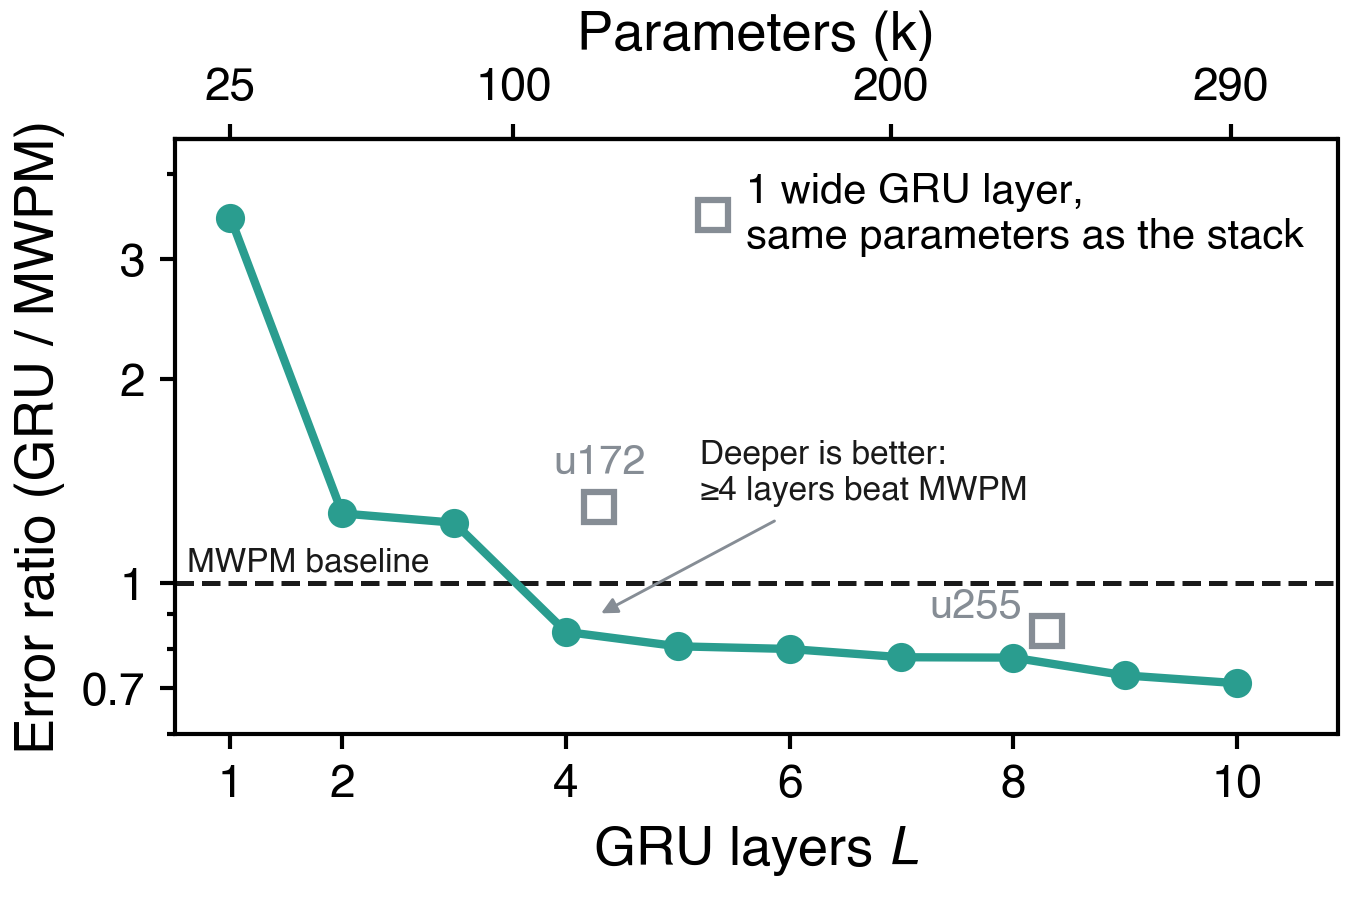
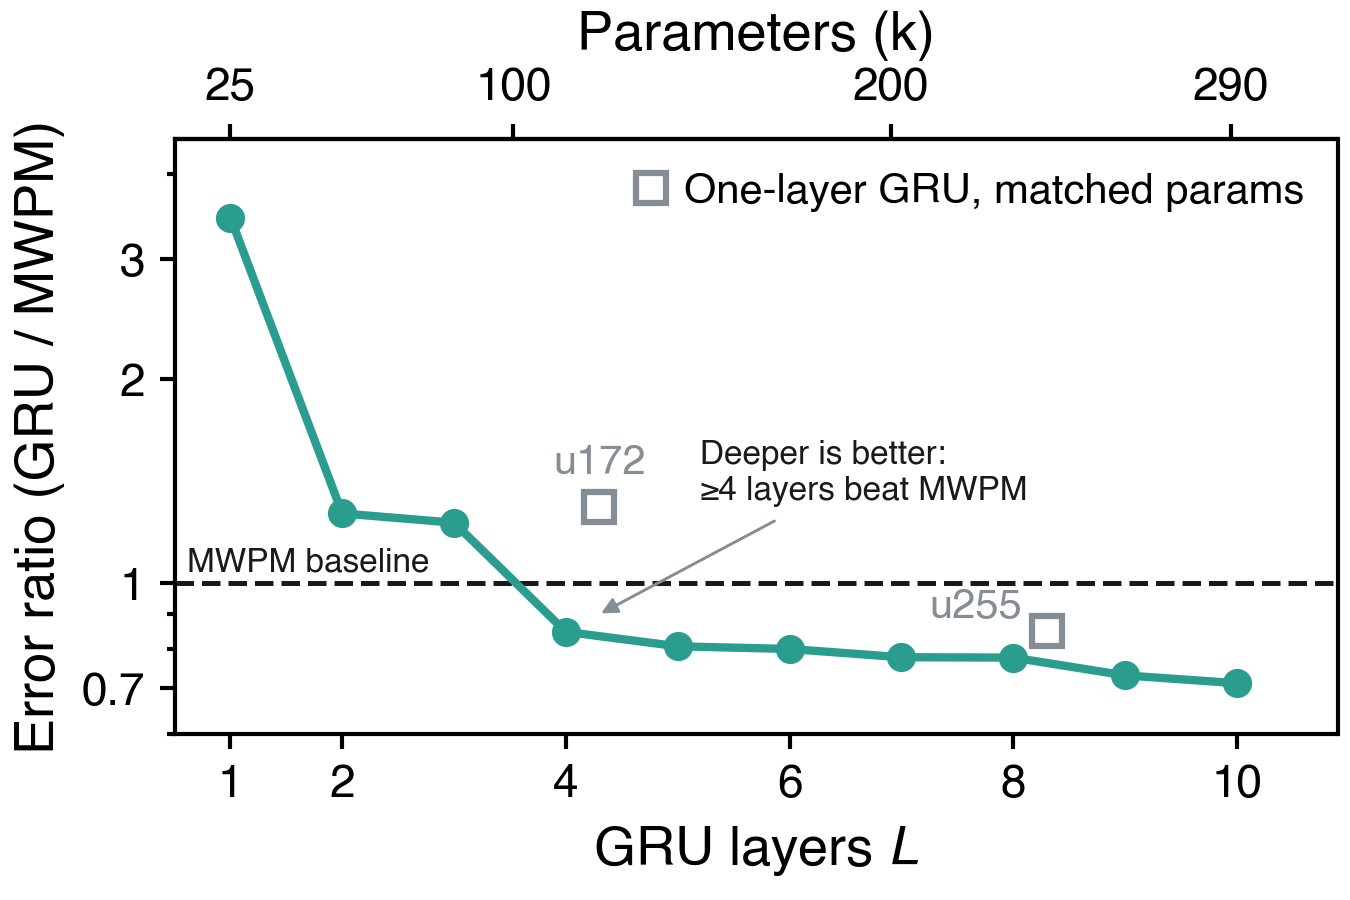
Depth figure: legend reads one-layer GRU, matched params

Changed region(s): [[0.4667, 0.1867, 0.9644, 0.28]]

diff --git a/figures/fig7_depth.py b/figures/fig7_depth.py
@@ -1,5 +1,5 @@
 # Created: 2026-10-28
-# Last modified: 2026-10-31 (shorter 8 pt note; depth annotation with arrow, heavier MWPM baseline line and label, SVG output; 2026-10-28: small-panel font sizes, MWPM label left, sentence-case labels, matched-run legend instead of bracket, 10 pt point labels)
+# Last modified: 2026-10-31 (legend: one-layer GRU, matched params; shorter 8 pt note; depth annotation with arrow, heavier MWPM baseline line and label, SVG output; 2026-10-28: small-panel font sizes, MWPM label left, sentence-case labels, matched-run legend instead of bracket, 10 pt point labels)
 # Poster version of depth_scaling.py: d = 7, p = 0.004, u70 stacks L = 1-10 and the single-layer
 # u172 / u255 runs matched to L = 4 / 8 in parameters. Eval-block ratios to MWPM on the same shots.
 #   python figures/fig7_depth.py
@@ -53,7 +53,7 @@ def plot(rows):
 
     key = plt.Line2D([], [], ls="none", marker="s", ms=MARKER_MS + 1, mfc="white", mew=1.5,
                      color=poster_style.NEUTRAL)
-    ax.legend([key], ["1 wide GRU layer,\nsame parameters as the stack"], loc="upper right",
+    ax.legend([key], ["One-layer GRU, matched params"], loc="upper right",
               frameon=False, fontsize=10, handletextpad=0.3, handlelength=1.0, borderaxespad=0.4)
 
     ax.axhline(1.0, color=poster_style.INK, lw=1.2, ls="--", zorder=1)
